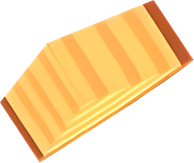
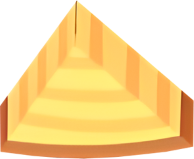
+ thêm hiệu ứng vòng tròn lóe sáng khi vỡ bảng

diff --git a/src/objects/boards/board.js b/src/objects/boards/board.js
@@ -9,7 +9,6 @@ export class Board extends Sprite {
     super(texture);
     this.anchor.set(0.5);
     this.boardSprite = new Sprite(Game.bundle.board);
-    // this.boardSprite.alpha = 1;
     this.boardSprite.anchor.set(0.5);
     this.angleRotation = 0.04;
     this._initCollider();
@@ -19,6 +18,7 @@ export class Board extends Sprite {
     this.addChild(this.boardSprite);
     this.currentDt = 0;
   }
+
   _initCollider() {
     this.collider = new Collider();
     this.collider.width = 150;
@@ -26,9 +26,10 @@ export class Board extends Sprite {
     this.collider.zIndex = 110;
     this.addChild(this.collider);
   }
+
   _initFragments() {
     this.frgLgFrames = [];
-    for (let i = 0; i <= 5; i++) {
+    for (let i = 2; i <= 5; i++) {
       let frgLgframe = Texture.from(`../assets/images/frgLg${i}.png`);
       this.frgLgFrames.push(frgLgframe);
     }
@@ -41,7 +42,7 @@ export class Board extends Sprite {
     this.fragments1.zIndex = 100;
 
     this.frgMdFrames = [];
-    for (let i = 1; i <= 4; i++) {
+    for (let i = 2; i <= 4; i++) {
       let frgMdframe = Texture.from(`../assets/images/frgMd${i}.png`);
       this.frgMdFrames.push(frgMdframe);
     }
@@ -53,7 +54,7 @@ export class Board extends Sprite {
     this.fragments2.zIndex = 100;
 
     this.frgSmFrames = [];
-    for (let i = 1; i <= 5; i++) {
+    for (let i = 2; i <= 5; i++) {
       let frgSmframe = Texture.from(`../assets/images/frgSm${i}.png`);
       this.frgSmFrames.push(frgSmframe);
     }
@@ -65,55 +66,60 @@ export class Board extends Sprite {
     this.fragments3.zIndex = 100;
     this.addChild(this.fragments1, this.fragments2, this.fragments3);
   }
+
   breakUp() {
     // this.texture = null;
     this.fragments1.visible = true;
     this.fragments1.play();
-    this.fragments1.animationSpeed = 0.15;
+    this.fragments1.animationSpeed = 0.08 ;
     this.fragments1.loop = false;
 
     this.fragments2.visible = true;
     this.fragments2.play();
-    this.fragments2.animationSpeed = 0.15;
+    this.fragments2.animationSpeed = 0.12;
     this.fragments2.loop = false;
 
     this.fragments3.visible = true;
     this.fragments3.play();
-    this.fragments3.animationSpeed = 0.15;  
+    this.fragments3.animationSpeed = 0.12;  
     this.fragments3.loop = false;
 
     this.setBroken();
   }
+
   setBroken() {
     this.isBroken = true;
     // set rơi manh 1
     new TWEEN.Tween(this.fragments1)
-      .to({ x: -50, y: -50, rotation: 0.05}, 30)
+      .to({ x: 200, y: -2, rotation: 0.0001},20)
       .onComplete(() => {
         new TWEEN.Tween(this.fragments1)
-          .to({ x: -150, y: 1200, rotation: 0.02 }, 70)
+          .to({ x: 280, y: 1200, rotation: 0.0005 },40)
           .start(this.currentDt);
       })
       .start(this.currentDt);
+
     // set rơi manh 2
     new TWEEN.Tween(this.fragments2)
-      .to({ x: 150, y: -150, rotation: 0.5 }, 40)
+      .to({ x: 180, y: -350, rotation: 0.005 }, 20)
       .onComplete(() => {
         new TWEEN.Tween(this.fragments2)
-          .to({ x: 280, y: 1250, rotation: 1 },55)
+          .to({ x: 380, y: 1250, rotation: 0.05 },55)
           .start(this.currentDt);
       })
       .start(this.currentDt);
+
     // set rơi manh 3
     new TWEEN.Tween(this.fragments3)
-      .to({ x: -200, y: -250, rotation: -0.5 },30)
+      .to({ x: -200, y: -350, rotation: -0.005 },20)
       .onComplete(() => {
         new TWEEN.Tween(this.fragments3)
-          .to({ x: -300, y: 1350, rotation: -1.5 },60)
+          .to({ x: -400, y: 1350, rotation: -0.05 },50)
           .start(this.currentDt);
       })
       .start(this.currentDt);
   }
+
   //Tạo hiệu ứng bảng giật và lóe sáng mỗi lần phóng dao
   boundFlareBoard() {
     this.boardFilter = new AdjustmentFilter();
@@ -131,7 +137,23 @@ export class Board extends Sprite {
       })
       .start(this.currentDt);
   }
-  //Lóe sáng bảng mỗi lần phóng dao
+
+  // Vòng tròn xuất hiện khi bảng vỡ ra
+  circleFlare() {
+    new TWEEN.Tween(this.circleWhite)
+    .to({x:this.circleWhite.x + 200, y:this.circleWhite.y +200}, 20)
+    .onUpdate(() => {
+      
+    })
+    .onComplete(() => {
+      new TWEEN.Tween(this.circleWhite)
+      .to({x:this.circleWhite.x - 200, y:this.circleWhite.y -200}, 30)
+      .onUpdate(() => {})
+      .onComplete(() => {})
+      .start(this.currentDt)
+    })
+    .start(this.currentDt);
+  }
   update(dt) {
     this.currentDt += dt;
     TWEEN.update(this.currentDt);
@@ -146,6 +168,7 @@ export class Board extends Sprite {
       this.changeRotation();
     }
   }
+
   changeRotation() {
     this.numRotation = this.boardSprite.rotation / (Math.PI * 2);
     if (this.numRotation >= 2) {

diff --git a/src/manifest.js b/src/manifest.js
@@ -35,30 +35,6 @@ export const manifest = {
                 srcs: 'assets/images/knife_black_icon.png'
             },
             {
-                name: 'fragment_lg_1',
-                srcs: 'assets/images/frgLg1.png'
-            },
-            {
-                name: 'fragment_lg_2',
-                srcs: 'assets/images/frgLg2.png'
-            },
-            {
-                name: 'fragment_md_1',
-                srcs: 'assets/images/frgMd1.png'
-            },
-            {
-                name: 'fragment_md_2',
-                srcs: 'assets/images/frgMd2.png'
-            },
-            {
-                name: 'fragment_sm_1',
-                srcs: 'assets/images/frgSm1.png'
-            },
-            {
-                name: 'fragment_sm_2',
-                srcs: 'assets/images/frgSm2.png'
-            },
-            {
                 name: 'flare',
                 srcs: 'assets/images/sao8canh.png'
             },
@@ -97,6 +73,14 @@ export const manifest = {
             {
                 name: 'resultGameBg',
                 srcs: 'assets/images/victory.png'
+            },
+            {
+                name: 'circleWhite',
+                srcs: 'assets/images/circle.png'
+            },
+            {
+                name: 'circleParticle',
+                srcs: 'assets/particles/brokenBoard.json'
             }
         ],
     }],

diff --git a/src/objects/scenes/playScene.js b/src/objects/scenes/playScene.js
@@ -60,7 +60,11 @@ export class PlayScene extends Container {
 
     this.tutorialUI.on("tapped", (e) => this._onStart(e));
     this.resultUI.hide();
-    this.resultUI.on("tapped", (e) => this._onContGame(e));
+    if(this.resultUI.messageText.text = "You win") {
+      this.resultUI.on("tapped", (e) => this._onContGame(e));
+    }else if(this.resultUI.messageText.text = "You lose"){
+      this.resultUI.on("tapped", (e) => this._onRestartGame(e));
+    }
   }
 
   _initUIResult() {
@@ -255,9 +259,24 @@ export class PlayScene extends Container {
               this.state = GameState.Win;
               this.resultUI.show();
             }, 1500);
+
+             //tao vòng tròn lóe sáng khi thắng
+          let circleParticle = new Emitter(
+            this.particleContainer,
+            upgradeConfig(Game.bundle.circleParticle, [Game.bundle.circleWhite])
+          );
+          circleParticle.scale = 0.06;  
+          circleParticle.updateSpawnPos(
+            this.board.x ,
+            this.board.y
+          );
+          setTimeout(() => {
+            circleParticle.playOnceAndDestroy();
+          }, 100)
           }
           // Bảng nảy lên và lóe sáng
           this.board.boundFlareBoard();
+          //
           //tang diem
           this.playUI.updateScore(++this.score);
           console.log("va roi!");
